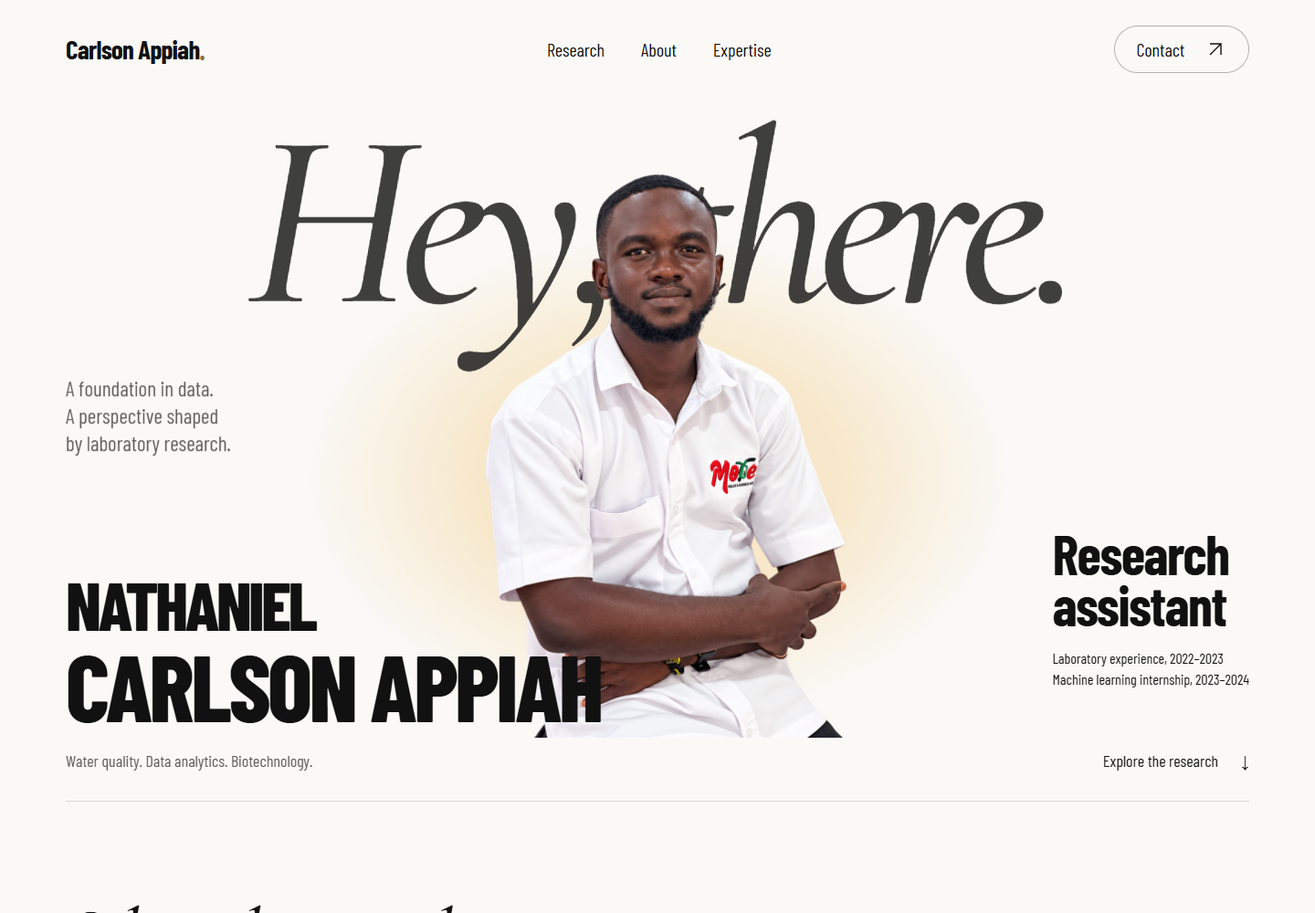
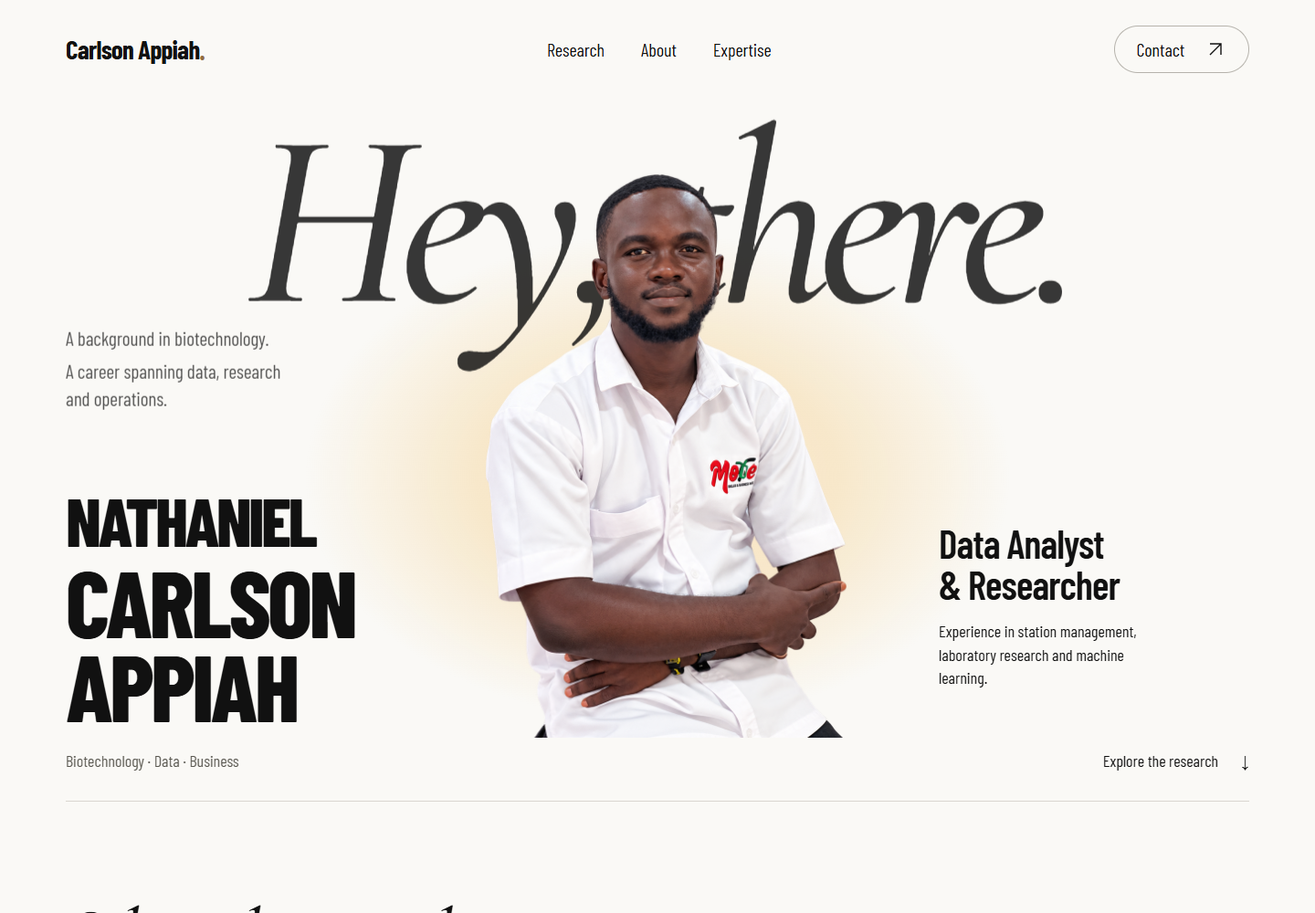
Refine hero section styles and content; update positioning and descriptions in HTML and CSS files. Add new preview images for various screen sizes.

Changed region(s): [[0.0312, 0.527, 0.4688, 0.837], [0.7188, 0.589, 0.9375, 0.775], [0.0312, 0.341, 0.2188, 0.496]]

diff --git a/styles.css b/styles.css
@@ -1,19 +1,19 @@
-:root{--paper:#faf9f6;--ink:#111;--peach:#ffe3c0;--cream:#f3e9d8;--amber:#e8b768;--muted:#595750;--serif:'Cormorant Garamond',Georgia,serif;--sans:'Barlow Condensed','Arial Narrow',Arial,sans-serif;--gutter:clamp(24px,5vw,84px)}
+:root{--paper:#faf9f6;--ink:#111;--peach:#ffe3c0;--cream:#f3e9d8;--amber:#e8b768;--muted:#595750;--serif:'Cormorant Garamond',Georgia,serif;--sans:'Barlow Condensed','Arial Narrow',Arial,sans-serif;--gutter:clamp(24px,5vw,84px)}
 *{box-sizing:border-box}html{scroll-behavior:smooth;scroll-padding-top:28px}body{margin:0;background:var(--paper);color:var(--ink);font-family:var(--sans);font-size:21px;line-height:1.5}a{color:inherit;text-decoration:none}button,a,summary{-webkit-tap-highlight-color:transparent}img{display:block;width:100%;height:auto}svg{width:24px;height:24px;fill:none;stroke:currentColor;stroke-width:1.4}p,h1,h2,h3,h4,figure{margin:0}h1,h2,h3,h4{line-height:1}p{max-width:65ch}a:focus-visible,summary:focus-visible{outline:2px solid var(--ink);outline-offset:6px;border-radius:2px}a:hover{text-decoration:underline;text-underline-offset:5px}::selection{background:var(--peach)}.wrap{max-width:1600px;padding-inline:var(--gutter);margin-inline:auto}.skip-link{position:absolute;top:-100px;left:24px;z-index:10;background:var(--paper);padding:12px 18px}.skip-link:focus{top:12px}.site-header{display:flex;align-items:center;justify-content:space-between;min-height:108px;gap:24px}.brand{font-weight:700;font-size:29px;letter-spacing:-.8px}.brand-dot{color:#916c3f}.site-header nav{display:flex;gap:40px;font-size:20px}.contact-pill{display:flex;align-items:center;gap:22px;border:1px solid #b6b3ac;border-radius:40px;padding:10px 24px;font-size:20px;transition:background .2s}.contact-pill:hover{background:var(--peach);text-decoration:none}
-.hero{height:770px;position:relative;isolation:isolate}.hero-greeting{position:absolute;z-index:-2;left:50%;top:-10px;transform:translateX(-50%);font-family:var(--serif);font-style:italic;font-size:clamp(140px,19vw,300px);line-height:1.05;letter-spacing:-.055em;white-space:nowrap;width:max-content}.portrait-glow{position:absolute;z-index:-3;top:145px;left:50%;transform:translateX(-50%);width:780px;height:540px;background:radial-gradient(ellipse,rgba(255,227,192,.95) 0%,rgba(242,200,122,.35) 36%,rgba(250,249,246,0) 70%);max-width:100%}.hero-portrait{position:absolute;z-index:-1;top:126px;bottom:70px;left:50%;transform:translateX(-50%);width:530px;max-width:48%}.hero-portrait img{height:100%;object-fit:contain;object-position:center bottom}.hero-description{position:absolute;top:300px;left:var(--gutter);font-size:23px;line-height:1.3;max-width:240px}.hero-name{position:absolute;bottom:120px;left:var(--gutter);font-size:clamp(64px,7.1vw,116px);font-weight:800;line-height:.9;letter-spacing:-.035em;text-transform:uppercase}.hero-name span{display:block}.hero-name .name-first{font-size:.73em;margin-bottom:9px}.hero-identity{position:absolute;right:var(--gutter);bottom:123px}.identity-title{font-size:clamp(44px,4.2vw,68px);font-weight:700;line-height:.94;letter-spacing:-.025em}.identity-note{font-size:16px;line-height:1.4;margin-top:19px}.hero-foot{position:absolute;bottom:0;left:var(--gutter);right:var(--gutter);display:flex;justify-content:space-between;align-items:center;border-bottom:1px solid #d9d6cf;padding-bottom:26px;color:var(--muted);font-size:18px}.text-link{display:inline-flex;align-items:center;gap:25px;padding-block:4px;border-bottom:1px solid currentColor;width:fit-content;color:var(--ink);font-size:20px}.text-link:hover{text-decoration:none;border-bottom-color:transparent}.hero-foot .text-link{border:0;font-size:18px}.hero-greeting,.hero-description{animation:intro 1s ease both}.hero-description{animation-delay:.1s}@keyframes intro{from{opacity:0;translate:0 10px}to{opacity:1;translate:0 0}}
+.hero{height:770px;position:relative;isolation:isolate}.hero-greeting{position:absolute;z-index:-2;left:50%;top:-10px;transform:translateX(-50%);font-family:var(--serif);font-style:italic;font-size:clamp(140px,19vw,300px);line-height:1.05;letter-spacing:-.055em;white-space:nowrap;width:max-content}.portrait-glow{position:absolute;z-index:-3;top:145px;left:50%;transform:translateX(-50%);width:780px;height:540px;background:radial-gradient(ellipse,rgba(255,227,192,.95) 0%,rgba(242,200,122,.35) 36%,rgba(250,249,246,0) 70%);max-width:100%}.hero-portrait{position:absolute;z-index:-1;top:126px;bottom:70px;left:50%;transform:translateX(-50%);width:530px;max-width:48%}.hero-portrait img{height:100%;object-fit:contain;object-position:center bottom}.hero-description{position:absolute;top:245px;left:var(--gutter);font-size:21px;line-height:1.4;max-width:260px}.hero-description span{display:block}.hero-description span+span{margin-top:7px}.hero-name{position:absolute;bottom:120px;left:var(--gutter);font-size:clamp(64px,7.1vw,116px);font-weight:800;line-height:.9;letter-spacing:-.035em;text-transform:uppercase}.hero-name span{display:block}.hero-name .name-first{font-size:.73em;margin-bottom:9px}.hero-identity{position:absolute;right:var(--gutter);bottom:123px;width:min(24vw,340px)}.identity-title{font-size:clamp(32px,3vw,46px);font-weight:600;line-height:1.04;letter-spacing:-.02em}.identity-title span,.identity-note span{display:block}.identity-title span{white-space:nowrap}.identity-note{font-size:18px;line-height:1.4;margin-top:17px;max-width:29ch}.hero-foot{position:absolute;bottom:0;left:var(--gutter);right:var(--gutter);display:flex;justify-content:space-between;align-items:center;border-bottom:1px solid #d9d6cf;padding-bottom:26px;color:var(--muted);font-size:18px}.text-link{display:inline-flex;align-items:center;gap:25px;padding-block:4px;border-bottom:1px solid currentColor;width:fit-content;color:var(--ink);font-size:20px}.text-link:hover{text-decoration:none;border-bottom-color:transparent}.hero-foot .text-link{border:0;font-size:18px}.hero-greeting,.hero-description{animation:intro 1s ease both}.hero-description{animation-delay:.1s}@keyframes intro{from{opacity:0;translate:0 10px}to{opacity:1;translate:0 0}}
 .work-section{padding-top:106px;padding-bottom:122px}.section-heading{display:flex;align-items:end;justify-content:space-between;gap:40px;margin-bottom:54px}h2{font-family:var(--serif);font-weight:500;font-style:italic;font-size:clamp(48px,5.7vw,86px);letter-spacing:-.035em}.section-heading>p{font-size:22px;line-height:1.3;padding-bottom:5px}.research-grid{display:grid;grid-template-columns:1.2fr 1fr;gap:8%}.research-secondary{padding-top:146px}.project-figure{margin-bottom:25px}.project-image{overflow:hidden;background:#e4eae7}.project-image img{transition:transform .7s cubic-bezier(.2,.7,.2,1)}.project-figure:hover img{transform:scale(1.035)}figcaption{font-size:15px;color:var(--muted);margin-top:9px}.project-meta{font-size:17px;color:var(--muted);margin-bottom:17px}.research-item h3{font-size:clamp(33px,3.3vw,49px);font-weight:600;line-height:1.03;letter-spacing:-.015em;margin-bottom:21px}.research-item>p:not(.project-meta){font-size:22px;line-height:1.45;max-width:44ch}.research-item details{margin-top:22px}summary{cursor:pointer;list-style:none;width:100%;font-size:20px;display:flex;align-items:center;justify-content:space-between;gap:15px;padding:14px 0;border-bottom:1px solid #c8c4bc}summary::-webkit-details-marker{display:none}summary::after{content:'+';font-size:25px;line-height:1}details[open]>summary::after{content:'−'}summary:hover{color:#73532d}.detail-content{padding-top:20px;font-size:20px;line-height:1.5}.detail-content p+p{margin-top:14px}.detail-content .text-link{margin-top:18px;font-size:18px}
 .about-section{display:grid;grid-template-columns:1.2fr 1fr;gap:8%;padding-top:93px;padding-bottom:118px;border-top:1px solid #d9d6cf}.about-copy h2{margin-bottom:35px}.about-statement{font-family:var(--serif);font-size:clamp(34px,3.65vw,53px);line-height:1.08;letter-spacing:-.02em;margin-bottom:29px}.about-copy>p:not(.about-statement){font-size:22px;max-width:45ch;margin-bottom:18px}.download-link{margin-top:17px}.education{padding-top:20px}.education>h3{font-size:30px;font-weight:500;margin-bottom:40px}.education-entry{margin-bottom:35px}.education-date{color:var(--muted);font-size:18px;margin-bottom:11px}.education-entry h4{font-size:29px;font-weight:600;line-height:1.1;margin-bottom:14px}.education-entry>p:last-child{font-size:20px;line-height:1.45}.education-note{font-size:16px;line-height:1.4;color:var(--muted);max-width:43ch}.expertise-section{background:var(--cream);padding-top:94px;padding-bottom:76px}.expertise-section h2{max-width:780px}.expertise-grid{display:grid;grid-template-columns:repeat(3,1fr);gap:7%;margin-top:68px}.expertise-grid h3{font-size:36px;font-weight:600;line-height:1.03;margin-bottom:23px}.expertise-grid p{font-size:22px;line-height:1.4}.expertise-grid .tool-list{font-size:19px;color:var(--muted);margin-top:20px}.training{margin-top:62px}.training>summary{padding-block:21px;font-size:25px;justify-content:start;border-top:1px solid #c7bfae}.training>summary>span{margin-left:auto;font-size:18px;color:var(--muted)}.training>summary::after{margin-left:24px}.training-list{padding-top:24px;columns:2;column-gap:60px}.training-list p{font-size:20px;display:flex;gap:25px;break-inside:avoid;margin-bottom:11px}.training-list span{min-width:78px;color:var(--muted)}
 .contact-section{padding-top:116px;padding-bottom:77px}.contact-top{display:flex;justify-content:space-between;align-items:center;margin-bottom:49px;gap:30px}.contact-top h2{font-size:clamp(75px,10vw,154px)}.contact-top p{font-size:23px;line-height:1.3}.email-link{display:flex;align-items:center;justify-content:space-between;font-size:clamp(32px,5.2vw,80px);font-weight:500;letter-spacing:-.015em;border-bottom:1px solid #b6b3ac;padding-bottom:23px;gap:20px}.email-link svg{width:52px;height:52px;flex-shrink:0;transition:transform .2s}.email-link:hover{text-decoration:none}.email-link:hover svg{transform:translate(4px,-4px)}.contact-bottom{display:flex;align-items:center;justify-content:space-between;gap:24px;padding-top:26px;font-size:22px}.contact-bottom address{font-style:normal;color:var(--muted);font-size:19px}.contact-bottom .text-link{font-size:19px}.site-footer{padding-bottom:30px;padding-top:24px;display:flex;justify-content:space-between;font-size:17px;color:var(--muted);border-top:1px solid #d9d6cf}
 @media(min-width:1600px){.hero-greeting{font-size:300px}}
-@media(max-width:1100px){.hero{height:680px}.hero-greeting{top:20px}.hero-portrait{top:110px;bottom:70px;width:430px;max-width:50%}.hero-description{top:255px;font-size:20px;max-width:185px}.hero-name{bottom:125px;font-size:7.3vw}.hero-identity{bottom:125px}.identity-title{font-size:45px}.identity-note{font-size:14px;max-width:175px}.research-grid,.about-section{gap:6%}.research-secondary{padding-top:105px}.expertise-grid{gap:5%}.expertise-grid h3{font-size:31px}}
-@media(max-width:760px){body{font-size:20px}.site-header{min-height:114px;flex-wrap:wrap;gap:12px;padding-top:21px;padding-bottom:19px}.brand{font-size:25px}.contact-pill{font-size:18px;padding:6px 17px;gap:16px}.contact-pill svg{width:18px;height:18px}.site-header nav{order:3;flex-basis:100%;justify-content:center;gap:36px;font-size:18px}.hero{height:auto;min-height:980px;padding-top:460px;padding-bottom:95px}.hero-greeting{top:12px;font-size:21vw;letter-spacing:-.06em}.hero-portrait{top:95px;bottom:auto;height:405px;width:370px;max-width:85%}.portrait-glow{top:90px;height:470px;width:100%}.hero-name{position:relative;left:auto;bottom:auto;font-size:clamp(48px,11vw,83px);z-index:1}.hero-name .name-first{font-size:.78em;margin-bottom:7px}.hero-identity{position:relative;right:auto;bottom:auto;margin-top:28px;display:flex;gap:30px;align-items:end}.identity-title{font-size:40px}.identity-note{font-size:15px;max-width:180px;margin-top:0}.hero-description{position:relative;top:auto;left:auto;font-size:21px;margin-top:24px;max-width:100%}.hero-description br{display:none}.hero-foot{padding-bottom:19px;gap:20px;align-items:end;font-size:15px}.hero-foot>span{max-width:170px}.hero-foot .text-link{font-size:16px;gap:10px;white-space:nowrap}.work-section{padding-top:67px;padding-bottom:65px}.section-heading{display:block;margin-bottom:33px}.section-heading>p{margin-top:20px;font-size:20px}.research-grid{grid-template-columns:1fr;gap:54px}.research-secondary{padding-top:0}.research-item h3{font-size:39px}.project-meta{font-size:16px}.research-item>p:not(.project-meta){font-size:21px}.research-secondary .project-image img{aspect-ratio:1.2;object-fit:cover}.about-section{grid-template-columns:1fr;gap:45px;padding-top:62px;padding-bottom:64px}.about-copy h2{margin-bottom:28px}.about-statement{font-size:42px}.about-copy>p:not(.about-statement){font-size:21px}.education{padding-top:0}.education>h3{margin-bottom:28px}.education-entry h4{font-size:28px}.expertise-section{padding-top:61px;padding-bottom:48px}.expertise-section h2{font-size:50px}.expertise-grid{grid-template-columns:1fr;margin-top:39px;gap:36px}.expertise-grid h3{font-size:32px;margin-bottom:16px}.expertise-grid h3 br{display:none}.expertise-grid p{font-size:21px}.expertise-grid .tool-list{margin-top:12px}.training{margin-top:40px}.training>summary{flex-wrap:wrap;position:relative;padding-right:24px;font-size:23px;gap:3px}.training>summary>span{margin-left:0;flex-basis:100%;font-size:16px}.training>summary::after{position:absolute;right:0;top:23px}.training-list{columns:1}.training-list p{font-size:19px;gap:15px}.contact-section{padding-top:65px;padding-bottom:45px}.contact-top{display:block;margin-bottom:30px}.contact-top h2{font-size:77px}.contact-top p{margin-top:20px;font-size:21px}.email-link{font-size:clamp(23px,6.1vw,43px);padding-bottom:17px;gap:9px}.email-link svg{width:24px;height:24px}.contact-bottom{flex-wrap:wrap;gap:16px;font-size:21px}.contact-bottom address{order:3;flex-basis:100%;font-size:18px}.contact-bottom .text-link{margin-left:auto}.site-footer{font-size:16px;gap:20px}.hero-greeting,.hero-description{animation-duration:.7s}}
-@media(max-width:380px){.hero{padding-top:415px;min-height:925px}.hero-portrait{height:355px;top:85px}.hero-identity{gap:15px}.identity-title{font-size:36px}.identity-note{font-size:13px}.hero-name{font-size:10.7vw}.hero-foot{font-size:14px}.hero-foot>span{max-width:150px}.hero-foot .text-link{font-size:14px}.contact-top h2{font-size:65px}.about-statement{font-size:36px}.email-link{font-size:6vw}}
+@media(max-width:1100px){.hero{height:680px}.hero-greeting{top:20px}.hero-portrait{top:110px;bottom:70px;width:430px;max-width:50%}.hero-description{top:225px;font-size:18px;max-width:185px}.hero-name{bottom:125px;font-size:7.3vw}.hero-identity{bottom:125px;width:22vw}.identity-title{font-size:clamp(25px,3.1vw,34px)}.identity-note{font-size:16px;max-width:none}.research-grid,.about-section{gap:6%}.research-secondary{padding-top:105px}.expertise-grid{gap:5%}.expertise-grid h3{font-size:31px}}
+@media(max-width:760px){body{font-size:20px}.site-header{min-height:114px;flex-wrap:wrap;gap:12px;padding-top:21px;padding-bottom:19px}.brand{font-size:25px}.contact-pill{font-size:18px;padding:6px 17px;gap:16px}.contact-pill svg{width:18px;height:18px}.site-header nav{order:3;flex-basis:100%;justify-content:center;gap:36px;font-size:18px}.hero{height:auto;min-height:980px;padding-top:460px;padding-bottom:95px}.hero-greeting{top:12px;font-size:21vw;letter-spacing:-.06em}.hero-portrait{top:95px;bottom:auto;height:405px;width:370px;max-width:85%}.portrait-glow{top:90px;height:470px;width:100%}.hero-name{position:relative;left:auto;bottom:auto;font-size:clamp(48px,11vw,83px);z-index:1}.hero-name .name-first{font-size:.78em;margin-bottom:7px}.hero-name .name-surname{display:flex;gap:.18em}.hero-identity{position:relative;right:auto;bottom:auto;margin-top:28px;display:block;width:auto}.identity-title{font-size:30px}.identity-note{font-size:18px;max-width:30ch;margin-top:13px}.hero-description{position:relative;top:auto;left:auto;font-size:21px;margin-top:24px;max-width:100%}.hero-description br{display:none}.hero-foot{padding-bottom:19px;gap:20px;align-items:end;font-size:15px}.hero-foot>span{max-width:170px}.hero-foot .text-link{font-size:16px;gap:10px;white-space:nowrap}.work-section{padding-top:67px;padding-bottom:65px}.section-heading{display:block;margin-bottom:33px}.section-heading>p{margin-top:20px;font-size:20px}.research-grid{grid-template-columns:1fr;gap:54px}.research-secondary{padding-top:0}.research-item h3{font-size:39px}.project-meta{font-size:16px}.research-item>p:not(.project-meta){font-size:21px}.research-secondary .project-image img{aspect-ratio:1.2;object-fit:cover}.about-section{grid-template-columns:1fr;gap:45px;padding-top:62px;padding-bottom:64px}.about-copy h2{margin-bottom:28px}.about-statement{font-size:42px}.about-copy>p:not(.about-statement){font-size:21px}.education{padding-top:0}.education>h3{margin-bottom:28px}.education-entry h4{font-size:28px}.expertise-section{padding-top:61px;padding-bottom:48px}.expertise-section h2{font-size:50px}.expertise-grid{grid-template-columns:1fr;margin-top:39px;gap:36px}.expertise-grid h3{font-size:32px;margin-bottom:16px}.expertise-grid h3 br{display:none}.expertise-grid p{font-size:21px}.expertise-grid .tool-list{margin-top:12px}.training{margin-top:40px}.training>summary{flex-wrap:wrap;position:relative;padding-right:24px;font-size:23px;gap:3px}.training>summary>span{margin-left:0;flex-basis:100%;font-size:16px}.training>summary::after{position:absolute;right:0;top:23px}.training-list{columns:1}.training-list p{font-size:19px;gap:15px}.contact-section{padding-top:65px;padding-bottom:45px}.contact-top{display:block;margin-bottom:30px}.contact-top h2{font-size:77px}.contact-top p{margin-top:20px;font-size:21px}.email-link{font-size:clamp(23px,6.1vw,43px);padding-bottom:17px;gap:9px}.email-link svg{width:24px;height:24px}.contact-bottom{flex-wrap:wrap;gap:16px;font-size:21px}.contact-bottom address{order:3;flex-basis:100%;font-size:18px}.contact-bottom .text-link{margin-left:auto}.site-footer{font-size:16px;gap:20px}.hero-greeting,.hero-description{animation-duration:.7s}}
+@media(max-width:380px){.hero{padding-top:415px;min-height:925px}.hero-portrait{height:355px;top:85px}.identity-title{font-size:28px}.identity-note{font-size:17px}.hero-name{font-size:10.7vw}.hero-foot{font-size:14px}.hero-foot>span{max-width:150px}.hero-foot .text-link{font-size:14px}.contact-top h2{font-size:65px}.about-statement{font-size:36px}.email-link{font-size:6vw}}
 @media(prefers-reduced-motion:reduce){html{scroll-behavior:auto}*,*::before,*::after{animation:none!important;transition:none!important}}
 /* Final composition refinements: scale the cutout by height, not its transparent width. */
 .hero-portrait{top:78px;width:620px;max-width:52%}
 .hero-portrait img{position:absolute;left:50%;transform:translateX(-50%);width:auto;max-width:none;height:100%;object-fit:contain}
 @media(max-width:1100px) and (min-width:761px){.hero-portrait{top:96px;width:430px;max-width:52%}}
-@media(max-width:760px){.hero{min-height:0;padding-top:486px;padding-bottom:113px}.hero-portrait{top:81px;height:440px;max-width:85%;width:370px}.hero-description{margin-top:26px;max-width:32ch}}
-@media(max-width:380px){.hero{min-height:0;padding-top:434px;padding-bottom:110px}.hero-portrait{top:78px;height:385px}}
+@media(max-width:760px){.hero{min-height:0;padding-top:545px;padding-bottom:113px}.hero-portrait{top:81px;height:440px;max-width:85%;width:370px}.hero-description{margin-top:26px;max-width:32ch}}
+@media(max-width:380px){.hero{min-height:0;padding-top:487px;padding-bottom:110px}.hero-portrait{top:78px;height:385px}}
 .hero-portrait{overflow:hidden}
 @media(min-width:1101px){.hero-name{bottom:82px}}

diff --git a/index.html b/index.html
@@ -1,10 +1,10 @@
-<!doctype html>
+<!doctype html>
 <html lang="en">
 <head>
-  <meta charset="utf-8">
+  <meta charset="UTF-8">
   <meta name="viewport" content="width=device-width, initial-scale=1">
   <meta name="theme-color" content="#FAF9F6">
-  <meta name="description" content="Nathaniel Carlson Appiah's research portfolio: water-quality machine learning, laboratory research, data analytics and a background in agricultural biotechnology.">
+  <meta name="description" content="Nathaniel Carlson Appiah's portfolio: data analytics, machine learning, laboratory research, water analysis, station management and business operations, with an agricultural biotechnology background.">
   <title>Nathaniel Carlson Appiah | Research portfolio</title>
   <link rel="preconnect" href="https://fonts.googleapis.com">
   <link rel="preconnect" href="https://fonts.gstatic.com" crossorigin>
@@ -26,10 +26,10 @@
       <div class="portrait-glow" aria-hidden="true"></div>
       <div class="hero-portrait"><img src="assets/portrait-cutout.png" alt="Nathaniel Carlson Appiah standing with his arms crossed" fetchpriority="high" width="1254" height="1254"></div>
 
-      <h1 id="owner-name" class="hero-name"><span class="name-first">Nathaniel</span><span>Carlson Appiah</span></h1>
-      <div class="hero-identity"><p class="identity-title">Research<br>assistant</p><p class="identity-note">Laboratory experience, 2022–2023<br>Machine learning internship, 2023–2024</p></div>
-      <p class="hero-description">A foundation in data.<br> A perspective shaped<br> by laboratory research.</p>
-      <div class="hero-foot"><span>Water quality. Data analytics. Biotechnology.</span><a class="text-link" href="#work">Explore the research <span aria-hidden="true">↓</span></a></div>
+      <h1 id="owner-name" class="hero-name"><span class="name-first">Nathaniel</span> <span class="name-surname"><span>Carlson</span> <span>Appiah</span></span></h1>
+      <div class="hero-identity"><p class="identity-title"><span>Data Analyst</span><span>&amp; Researcher</span></p><p class="identity-note">Experience in station management, laboratory research and machine learning.</p></div>
+      <p class="hero-description"><span>A background in biotechnology.</span> <span>A career spanning data, research and operations.</span></p>
+      <div class="hero-foot"><span>Biotechnology &middot; Data &middot; Business</span><a class="text-link" href="#work">Explore the research <span aria-hidden="true">&#x2193;</span></a></div>
     </section>
 
     <section class="work-section wrap" id="work" aria-labelledby="work-title">
@@ -37,14 +37,14 @@
       <div class="research-grid">
         <article class="research-item research-primary">
           <figure class="project-figure"><div class="project-image"><img src="assets/water-study.svg" alt="Abstract illustration of a water droplet and concentric ripples" width="1000" height="780" loading="lazy"></div><figcaption>Water-quality study / illustrative artwork</figcaption></figure>
-          <p class="project-meta">GSSTI internship &nbsp; / &nbsp; October 2023 – September 2024</p>
+          <p class="project-meta">GSSTI internship &nbsp; / &nbsp; October 2023 &#x2013; September 2024</p>
           <h3>Water quality,<br>through machine learning.</h3>
           <p>Collaborated on a project analysing fluoride and nitrate content in water, contributing to data preparation, feature engineering, model development and evaluation.</p>
           <details><summary>Project contributions</summary><div class="detail-content"><p>Used Python and scikit-learn for model development. The CV describes classification and regression approaches, and also lists Principal Component Analysis (PCA).</p><p>Tools: Python, scikit-learn, Pandas, NumPy, Matplotlib, Seaborn and ArcGIS.</p><p>Intern at Ghana Space Science and Technology Institute (GSSTI), Accra, Ghana. No quantitative results or published project output are supplied in the source.</p><a class="text-link" href="source/carlson.pdf#page=2">Read the experience in the CV</a></div></details>
         </article>
         <article class="research-item research-secondary">
           <figure class="project-figure"><div class="project-image"><img src="assets/laboratory-study.svg" alt="Abstract illustration of laboratory glass vessels with amber liquid" width="800" height="850" loading="lazy"></div><figcaption>Laboratory research / illustrative artwork</figcaption></figure>
-          <p class="project-meta">Research assistant &nbsp; / &nbsp; November 2022 – September 2023</p>
+          <p class="project-meta">Research assistant &nbsp; / &nbsp; November 2022 &#x2013; September 2023</p>
           <h3>At the intersection<br>of water and analysis.</h3>
           <p>Performed full water analysis for clients, recorded and analysed experimental data, and maintained the laboratory records that support reliable research.</p>
           <details><summary>Research responsibilities</summary><div class="detail-content"><p>Research Assistant at Nuclear and Analytical Chemistry Research Institute (NACRC), Accra, Ghana. Institution name and acronym are retained as stated in the CV.</p><p>Followed laboratory protocols and SOPs, maintained equipment and supplies, and assisted with preparation and submission of grant proposals, publications and presentations.</p><a class="text-link" href="source/carlson.pdf#page=3">Read the experience in the CV</a></div></details>
@@ -53,8 +53,8 @@
     </section>
 
     <section class="about-section wrap" id="about" aria-labelledby="about-title">
-      <div class="about-copy"><h2 id="about-title">A little about me.</h2><p class="about-statement">Computing, chemistry<br>and a curiosity for<br>what the data can tell us.</p><p>I'm Nathaniel Carlson Appiah. My background brings together data analytics and computing, laboratory research, and agricultural biotechnology education.</p><p>I've worked with water-quality data during an internship at GSSTI and with experimental procedures as a Research Assistant. Alongside research, my experience includes operations, administration, inventory management and client relationships.</p><a class="text-link download-link" href="source/carlson.pdf" download="Nathaniel-Carlson-Appiah-CV.pdf">Download my CV <svg viewBox="0 0 24 24" aria-hidden="true"><path d="M12 3v12m-5-5 5 5 5-5M5 16v5h14v-5"/></svg></a></div>
-      <div class="education"><h3>Education</h3><div class="education-entry"><p class="education-date">2025 – 2026</p><h4>MSc. Business and Data Analytics</h4><p>Kwame Nkrumah University of Science and Technology<br>Kumasi, Ghana</p></div><div class="education-entry"><p class="education-date">2018 – 2022</p><h4>BSc. Agricultural Biotechnology</h4><p>Kwame Nkrumah University of Science and Technology<br>Kumasi, Ghana</p></div><p class="education-note">Qualifications and dates as listed in the CV; completion status is not specified.</p></div>
+      <div class="about-copy"><h2 id="about-title">A little about me.</h2><p class="about-statement">Data, research<br>and the operations<br>that bring them together.</p><p>I'm Nathaniel Carlson Appiah. My background spans station management and business operations, data analytics and machine learning, laboratory research and water analysis, and agricultural biotechnology education.</p><p>My most recently listed role is Station Manager at More Fuel Limited (October 2025, as listed in my CV), with responsibilities in station operations, sales, inventory management and client relationships.</p><p>Earlier, I contributed to water-quality machine learning during an internship at GSSTI (October 2023 &#x2013; September 2024) and worked as a Research Assistant in laboratory research and water analysis (November 2022 &#x2013; September 2023). My academic background includes Agricultural Biotechnology.</p><a class="text-link download-link" href="source/carlson.pdf" download="Nathaniel-Carlson-Appiah-CV.pdf">Download my CV <svg viewBox="0 0 24 24" aria-hidden="true"><path d="M12 3v12m-5-5 5 5 5-5M5 16v5h14v-5"/></svg></a></div>
+      <div class="education"><h3>Education</h3><div class="education-entry"><p class="education-date">2025 &#x2013; 2026</p><h4>MSc. Business and Data Analytics</h4><p>Kwame Nkrumah University of Science and Technology<br>Kumasi, Ghana</p></div><div class="education-entry"><p class="education-date">2018 &#x2013; 2022</p><h4>BSc. Agricultural Biotechnology</h4><p>Kwame Nkrumah University of Science and Technology<br>Kumasi, Ghana</p></div><p class="education-note">Qualifications and dates as listed in the CV; completion status is not specified.</p></div>
     </section>
 
     <section class="expertise-section" id="expertise" aria-labelledby="expertise-title"><div class="wrap">
@@ -64,13 +64,14 @@
         <div><h3>Water &amp;<br>laboratory research</h3><p>Water analysis, experimental data, laboratory notebooks and standard operating procedures.</p><p class="tool-list">Research documentation, equipment maintenance and support for research reporting.</p></div>
         <div><h3>Agricultural<br>biotechnology</h3><p>Academic background in Agricultural Biotechnology at Kwame Nkrumah University of Science and Technology.</p><p class="tool-list">Complementing experience in computing, data analytics and laboratory research.</p></div>
       </div>
-      <details class="training"><summary>Data science training <span>DataCamp / 2023–2024</span></summary><div class="training-list"><p><span>Jan 2024</span>Data Science with Python</p><p><span>Sep 2023</span>Data Science in SQL</p><p><span>Sep 2023</span>Intermediate Python</p><p><span>Sep 2023</span>Python Data Science Toolbox (Part 1)</p><p><span>Sep 2023</span>Python Data Science Toolbox (Part 2)</p><p><span>Aug 2023</span>Introduction to Data Science in Python</p><p><span>July 2023</span>Learn Python 3 Course</p></div></details>
+      <details class="training"><summary>Data science training <span>DataCamp / 2023&#x2013;2024</span></summary><div class="training-list"><p><span>Jan 2024</span>Data Science with Python</p><p><span>Sep 2023</span>Data Science in SQL</p><p><span>Sep 2023</span>Intermediate Python</p><p><span>Sep 2023</span>Python Data Science Toolbox (Part 1)</p><p><span>Sep 2023</span>Python Data Science Toolbox (Part 2)</p><p><span>Aug 2023</span>Introduction to Data Science in Python</p><p><span>July 2023</span>Learn Python 3 Course</p></div></details>
     </div></section>
 
     <section class="contact-section wrap" id="contact" aria-labelledby="contact-title"><div class="contact-top"><h2 id="contact-title">Let's connect.</h2><p>For a conversation about<br>research, data or collaboration.</p></div><a class="email-link" href="mailto:appiahnathanie@gmail.com">appiahnathanie@gmail.com<svg viewBox="0 0 24 24" aria-hidden="true"><path d="M6 18 18 6M6 6h12v12"/></svg></a><div class="contact-bottom"><a href="tel:0542328940">0542328940</a><address>P. O. BOX WU 633, KASOA</address><a class="text-link" href="source/carlson.pdf" download="Nathaniel-Carlson-Appiah-CV.pdf">Download CV</a></div></section>
   </main>
-  <footer class="site-footer wrap"><p>Nathaniel Carlson Appiah</p><a href="#home">Back to top <span aria-hidden="true">↑</span></a></footer>
+  <footer class="site-footer wrap"><p>Nathaniel Carlson Appiah</p><a href="#home">Back to top <span aria-hidden="true">&#x2191;</span></a></footer>
 </body>
 </html>
+
 
 

diff --git a/tmp/refine-positioning.py b/tmp/refine-positioning.py
@@ -1,0 +1,23 @@
+from pathlib import Path
+p=Path('index.html')
+html=p.read_text(encoding='utf-8-sig')
+old='<div class="hero-identity"><p class="identity-title">Research<br>assistant</p><p class="identity-note">Laboratory experience, 2022–2023<br>Machine learning internship, 2023–2024</p></div>'
+new='<div class="hero-identity"><p class="identity-title"><span>Data Analytics</span><span>&amp; Research</span><span>Professional</span></p><p class="identity-note"><span>Station Manager — More Fuel Limited</span><span>Research • Analytics • Operations</span><span class="role-date">CV date: October 2025</span></p></div>'
+assert old in html
+html=html.replace(old,new)
+html=html.replace('Water quality. Data analytics. Biotechnology.','Data Analytics. Research. Operations.')
+html=html.replace('A foundation in data.<br> A perspective shaped<br> by laboratory research.','A foundation in data.<br> Experience across research<br> and business operations.')
+html=html.replace('Computing, chemistry<br>and a curiosity for<br>what the data can tell us.','Data, research<br>and the operations<br>that bring them together.')
+html=html.replace("I'm Nathaniel Carlson Appiah. My background brings together data analytics and computing, laboratory research, and agricultural biotechnology education.","I'm Nathaniel Carlson Appiah. My multidisciplinary background brings together station management and business operations, data analytics and machine learning, laboratory research and water analysis, and agricultural biotechnology education.")
+html=html.replace("I've worked with water-quality data during an internship at GSSTI and with experimental procedures as a Research Assistant. Alongside research, my experience includes operations, administration, inventory management and client relationships.","My most recently listed role is Station Manager at More Fuel Limited, with October 2025 recorded in my CV. That experience includes station operations, sales, inventory management and client relationships. The CV does not specify an end date or confirm that the role is ongoing.")
+html=html.replace('<a class="text-link download-link"',"<p>Earlier, I contributed to water-quality machine learning during an internship at GSSTI (October 2023 – September 2024) and worked as a Research Assistant in laboratory research and water analysis (November 2022 – September 2023). My academic background includes Agricultural Biotechnology.</p><a class=\"text-link download-link\"",1)
+html=html.replace("Nathaniel Carlson Appiah's research portfolio: water-quality machine learning, laboratory research, data analytics and a background in agricultural biotechnology.","Nathaniel Carlson Appiah's portfolio: data analytics, machine learning, laboratory research, water analysis, station management and business operations, with an agricultural biotechnology background.")
+p.write_text(html,encoding='utf-8')
+p=Path('styles.css')
+css=p.read_text(encoding='utf-8-sig')
+css=css.replace('.hero-identity{position:absolute;right:var(--gutter);bottom:123px}', '.hero-identity{position:absolute;right:var(--gutter);bottom:123px;width:min(24vw,340px)}')
+css=css.replace('.identity-title{font-size:clamp(44px,4.2vw,68px);font-weight:700;line-height:.94;letter-spacing:-.025em}', '.identity-title{font-size:clamp(36px,3.4vw,54px);font-weight:700;line-height:.98;letter-spacing:-.025em}.identity-title span,.identity-note span{display:block}.identity-title span{white-space:nowrap}.identity-note .role-date{margin-top:7px;color:var(--muted);font-size:.9em}')
+css=css.replace('.hero-identity{bottom:125px}.identity-title{font-size:45px}.identity-note{font-size:14px;max-width:175px}', '.hero-identity{bottom:125px;width:22vw}.identity-title{font-size:clamp(28px,3.5vw,38px)}.identity-note{font-size:14px;max-width:none}')
+css=css.replace('.hero-identity{position:relative;right:auto;bottom:auto;margin-top:28px;display:flex;gap:30px;align-items:end}.identity-title{font-size:40px}.identity-note{font-size:15px;max-width:180px;margin-top:0}', '.hero-identity{position:relative;right:auto;bottom:auto;margin-top:28px;display:block;width:auto}.identity-title{font-size:40px}.identity-note{font-size:16px;max-width:none;margin-top:16px}')
+css=css.replace('.hero-identity{gap:15px}.identity-title{font-size:36px}.identity-note{font-size:13px}', '.identity-title{font-size:36px}.identity-note{font-size:15px}')
+p.write_text(css,encoding='utf-8')

diff --git a/tmp/refine-hero.py b/tmp/refine-hero.py
@@ -1,0 +1,32 @@
+from pathlib import Path
+import re
+p=Path('index.html')
+html=p.read_text(encoding='utf-8-sig')
+for code in [0x2013,0x2014,0x2022,0x2193,0x2191,0x00b7,0x2018,0x2019,0x201c,0x201d]:
+    correct=chr(code)
+    try: damaged=correct.encode('utf-8').decode('cp1252')
+    except UnicodeDecodeError: continue
+    html=html.replace(damaged,correct)
+html=html.replace('<meta charset="utf-8">','<meta charset="UTF-8">')
+html=re.sub(r'<div class="hero-identity">.*?</div>', '<div class="hero-identity"><p class="identity-title"><span>Data Analyst</span><span>&amp; Researcher</span></p><p class="identity-note">Experience in station management, laboratory research and machine learning.</p></div>', html, count=1)
+html=re.sub(r'<p class="hero-description">.*?</p>', '<p class="hero-description"><span>A background in biotechnology.</span> <span>A career spanning data, research and operations.</span></p>',html,count=1)
+html=html.replace('<span>Data Analytics. Research. Operations.</span>','<span>Biotechnology &middot; Data &middot; Business</span>')
+html=html.replace('<h1 id="owner-name" class="hero-name"><span class="name-first">Nathaniel</span><span>Carlson Appiah</span></h1>', '<h1 id="owner-name" class="hero-name"><span class="name-first">Nathaniel</span> <span class="name-surname"><span>Carlson</span> <span>Appiah</span></span></h1>')
+html=html.replace('(CV date: October 2025)','(October 2025, as listed in my CV)')
+html=re.sub(r'[^\x00-\x7f]', lambda m:'&#x'+format(ord(m.group()),'X')+';',html)
+assert 'CV date:' not in html
+assert '&#xE2;' not in html
+p.write_text(html,encoding='utf-8')
+p=Path('styles.css')
+css=p.read_text(encoding='utf-8-sig')
+css=css.replace('.hero-description{position:absolute;top:300px;left:var(--gutter);font-size:23px;line-height:1.3;max-width:240px}', '.hero-description{position:absolute;top:245px;left:var(--gutter);font-size:21px;line-height:1.4;max-width:260px}.hero-description span{display:block}.hero-description span+span{margin-top:7px}')
+css=css.replace('.identity-title{font-size:clamp(36px,3.4vw,54px);font-weight:700;line-height:.98;letter-spacing:-.025em}', '.identity-title{font-size:clamp(32px,3vw,46px);font-weight:600;line-height:1.04;letter-spacing:-.02em}')
+css=css.replace('.identity-note .role-date{margin-top:7px;color:var(--muted);font-size:.9em}','')
+css=css.replace('.identity-note{font-size:16px;line-height:1.4;margin-top:19px}', '.identity-note{font-size:18px;line-height:1.4;margin-top:17px;max-width:29ch}')
+css=css.replace('.hero-description{top:255px;font-size:20px;max-width:185px}', '.hero-description{top:225px;font-size:18px;max-width:185px}')
+css=css.replace('.identity-title{font-size:clamp(28px,3.5vw,38px)}.identity-note{font-size:14px;max-width:none}', '.identity-title{font-size:clamp(25px,3.1vw,34px)}.identity-note{font-size:16px;max-width:none}')
+css=css.replace('.hero-name .name-first{font-size:.78em;margin-bottom:7px}', '.hero-name .name-first{font-size:.78em;margin-bottom:7px}.hero-name .name-surname{display:flex;gap:.18em}')
+css=css.replace('.identity-title{font-size:40px}.identity-note{font-size:16px;max-width:none;margin-top:16px}', '.identity-title{font-size:30px}.identity-note{font-size:18px;max-width:30ch;margin-top:13px}')
+css=css.replace('.identity-title{font-size:36px}.identity-note{font-size:15px}', '.identity-title{font-size:28px}.identity-note{font-size:17px}')
+p.write_text(css,encoding='utf-8')
+print('Repaired HTML punctuation; saved UTF-8 sources with entity-safe HTML. Updated only hero content/styles and the old CV-date label.')

diff --git a/tmp/clear-name.py b/tmp/clear-name.py
@@ -1,0 +1,6 @@
+from pathlib import Path
+p=Path('styles.css')
+css=p.read_text(encoding='utf-8')
+css=css.replace('.hero{min-height:0;padding-top:486px;padding-bottom:113px}', '.hero{min-height:0;padding-top:545px;padding-bottom:113px}')
+css=css.replace('.hero{min-height:0;padding-top:434px;padding-bottom:110px}', '.hero{min-height:0;padding-top:487px;padding-bottom:110px}')
+p.write_text(css,encoding='utf-8')

diff --git a/design-notes.md b/design-notes.md
@@ -41,3 +41,6 @@ Research preview SVGs are abstract editorial illustrations created for this webs
 - Confirmed working in-page navigation, keyboard skip link, visible focus styles, expandable project contributions, valid PDF download, no broken images or JavaScript errors, and reduced-motion scroll behavior.
 - Only the greeting and profile introduction animate on load. Disclosure controls use native HTML details elements; no JavaScript dependency is needed.
 - Fonts load from Google Fonts with local serif and sans-serif fallbacks.
+
+## Professional positioning refinement
+The hero now uses the requested three-line "Data Analytics / & Research / Professional" title, the Station Manager role at More Fuel Limited, and "Research • Analytics • Operations". A separate "CV date: October 2025" line avoids inferring ongoing employment. The bottom tagline is "Data Analytics. Research. Operations." About now explicitly covers station management, business operations, analytics, machine learning, laboratory research, water analysis, and agricultural biotechnology education; previous research roles are dated. Selected Research and all portrait, palette, gradient and layout assets are preserved. The condensed title size is reduced within the existing right-hand hero space; on mobile its supporting note sits below the title. Reviewed desktop, tablet and mobile renders and confirmed no page overflow across 320–1920 pixels.
